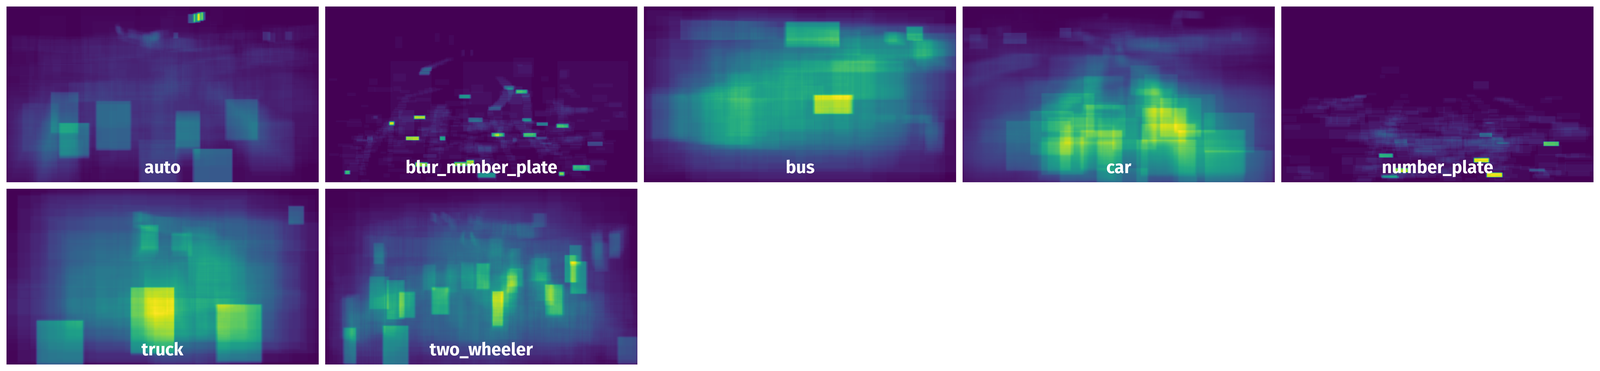
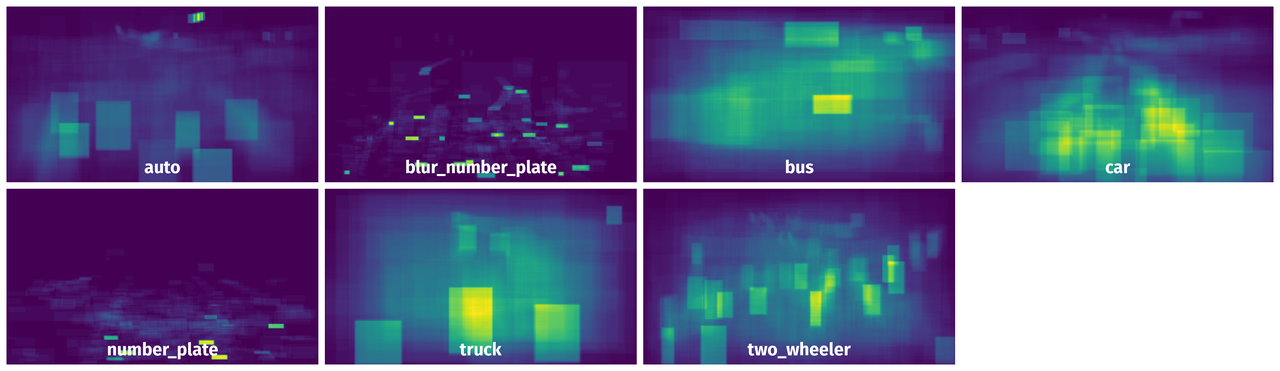
fix heatmaps

diff --git a/src/options.py b/src/options.py
@@ -1,6 +1,8 @@
-from dataset_tools.templates import AnnotationType
-from src.settings import ANNOTATION_TYPES
 from typing import List
+
+from dataset_tools.templates import AnnotationType
+
+from src.settings import ANNOTATION_TYPES
 
 ###############################################################################
 # ! Set up values if you want to change default values of visualizations
@@ -11,7 +13,7 @@ SAMPLE_RATE = 1  # make less if dataset is too big
 # * Preview class to visualize in SUMMARY.md overview section
 # * Literal["ClassesPreview", "HorizontalGrid", "SideAnnotationsGrid", "Poster", "HorizontalGridAnimated", "VerticalGridAnimated"]
 # * If None, then preview_class will be set automatically to "ClassesPreview"
-PREVIEW_CLASS = "Poster"
+PREVIEW_CLASS = "ClassesPreview"
 
 IS_DETECTION_TASK: bool = None  # ? Set True if you want to visualize only bbox annotations
 if IS_DETECTION_TASK is None:
@@ -69,8 +71,8 @@ CLASSES_PREVIEW_TAGS: List[str] = None
 ### * Set up visualization params for ClassesHeatmaps class ###
 # args for "to_image" method
 DRAW_STYLE: str = None  # "inside_white" or "outside_black"
-HEATMAP_ROWS: int = None
-HEATMAP_COLS: int = None
+HEATMAP_ROWS: int = 2
+HEATMAP_COLS: int = 4
 HEATMAP_GRID_SPACING: int = None
 HEATMAP_OUTER_GRID_SPACING: int = None
 HEATMAP_OUTPUT_WIDTH: int = (

diff --git a/SUMMARY.md b/SUMMARY.md
@@ -4,4 +4,6 @@ The dataset consists of 1201 images with 11134 labeled objects belonging to 7 di
 
 Images in the Traffic Vehicles Object Detection dataset have bounding box annotations. There are 285 (24% of the total) unlabeled images (i.e. without annotations). There are 3 splits in the dataset: *train* (738 images), *test* (278 images), and *val* (185 images). The dataset was released in 2021.
 
-<img src="https://github.com/dataset-ninja/traffic-vehicles-object-detection/raw/main/visualizations/poster.png">
+Here are the visualized examples for the classes:
+
+[Dataset classes](https://github.com/dataset-ninja/traffic-vehicles-object-detection/raw/main/visualizations/classes_preview.webm)
